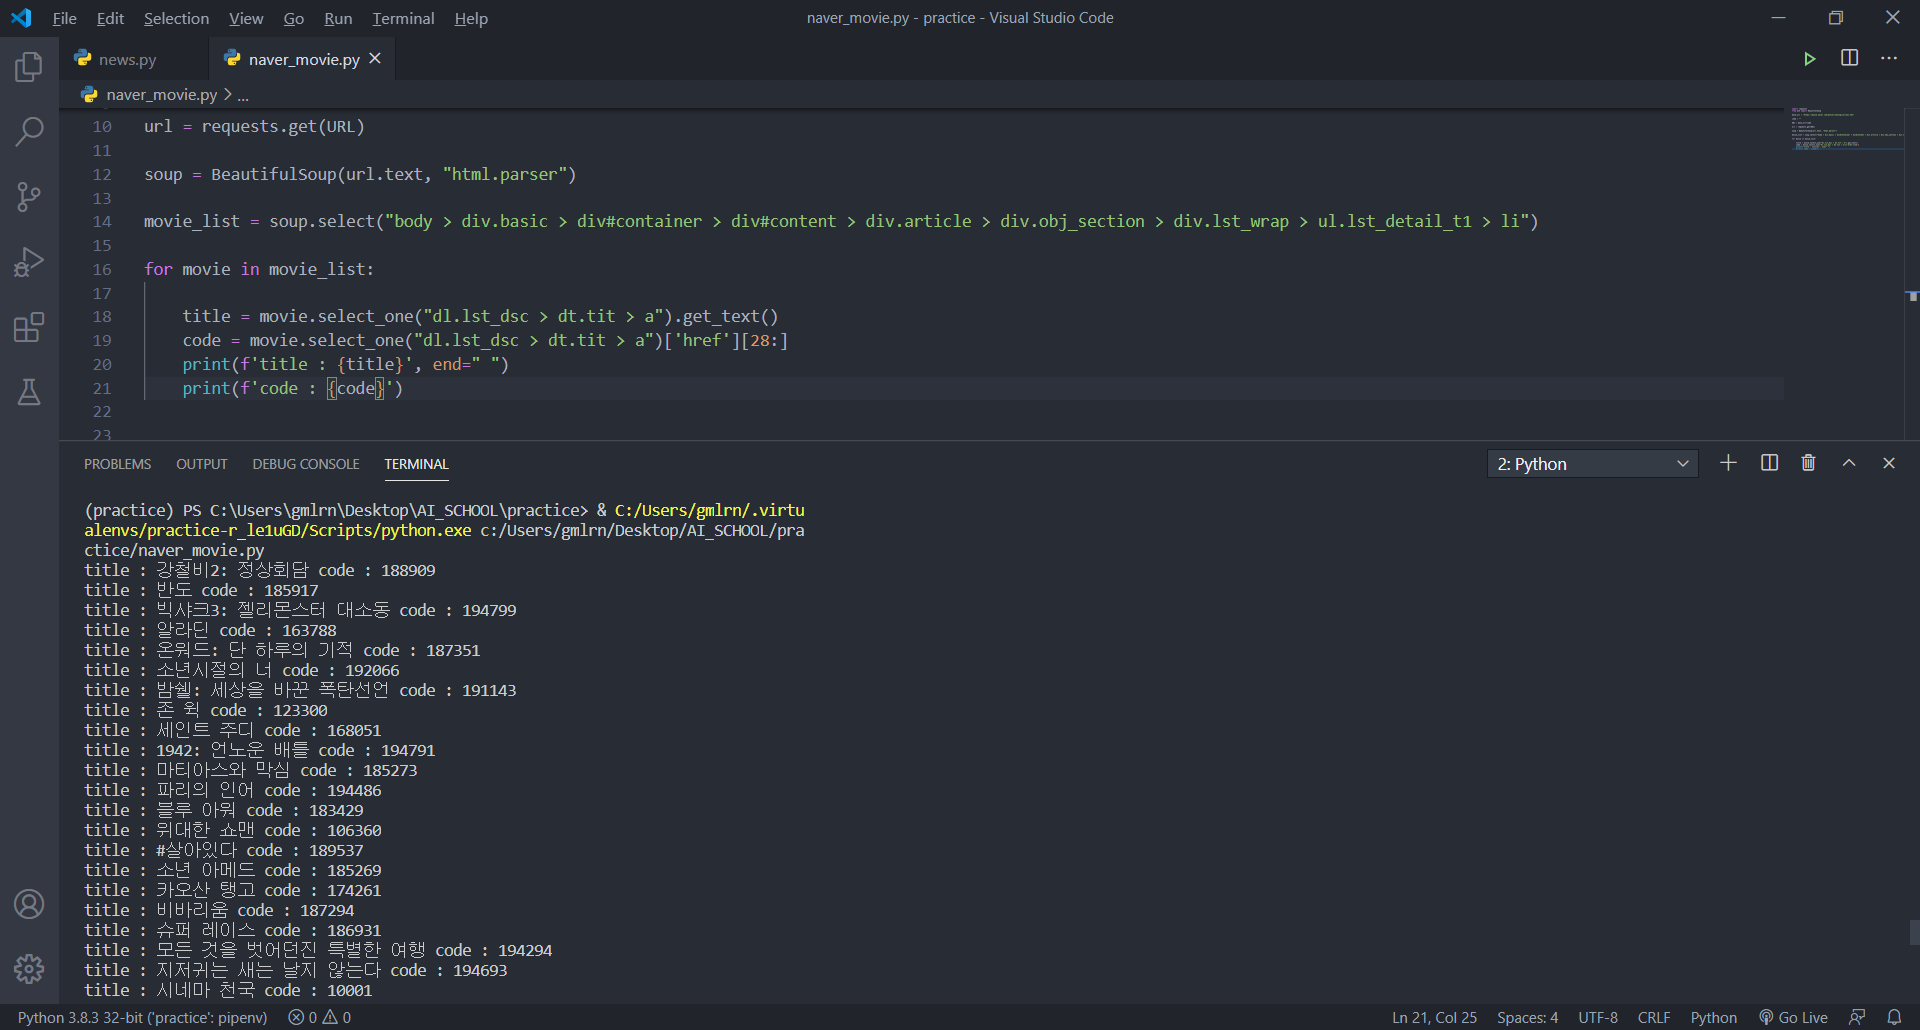
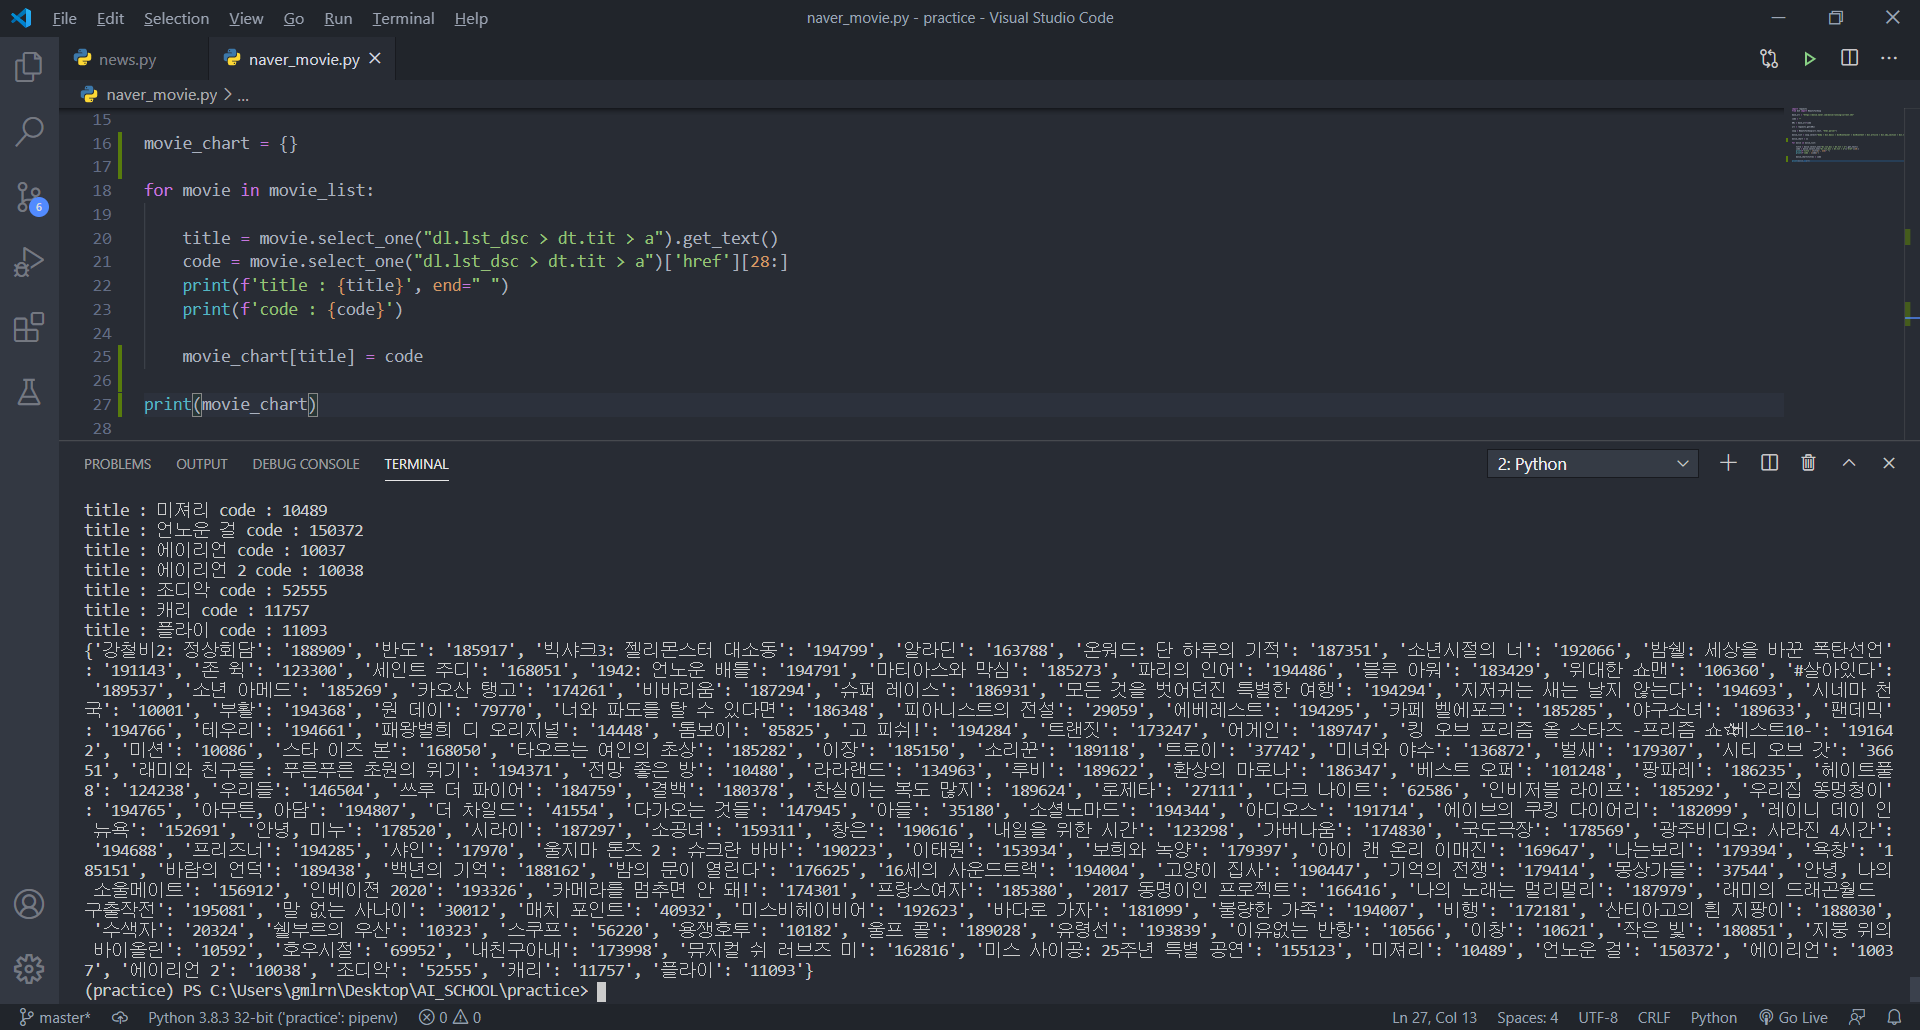
movie_1

diff --git a/naver_movie.py b/naver_movie.py
@@ -13,6 +13,8 @@ soup = BeautifulSoup(url.text, "html.parser")
 
 movie_list = soup.select("body > div.basic > div#container > div#content > div.article > div.obj_section > div.lst_wrap > ul.lst_detail_t1 > li")
 
+movie_chart = {}
+
 for movie in movie_list:
 
     title = movie.select_one("dl.lst_dsc > dt.tit > a").get_text()
@@ -20,3 +22,6 @@ for movie in movie_list:
     print(f'title : {title}', end=" ")
     print(f'code : {code}')
 
+    movie_chart[title] = code
+
+print(movie_chart)
